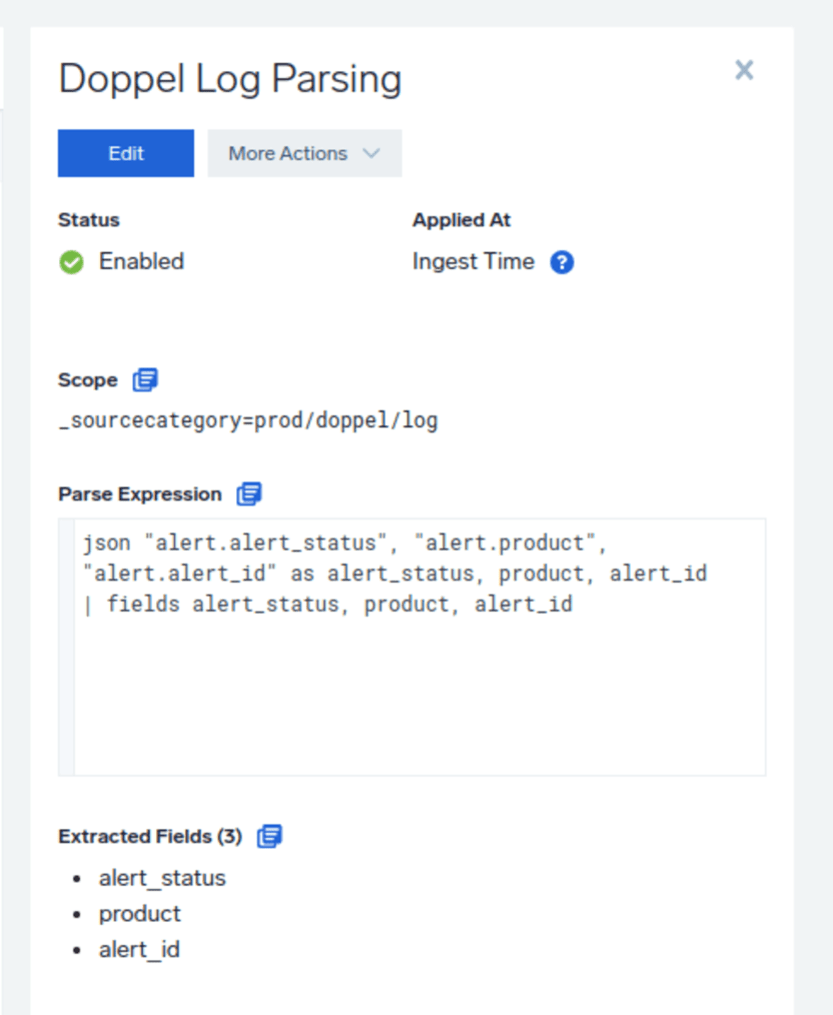
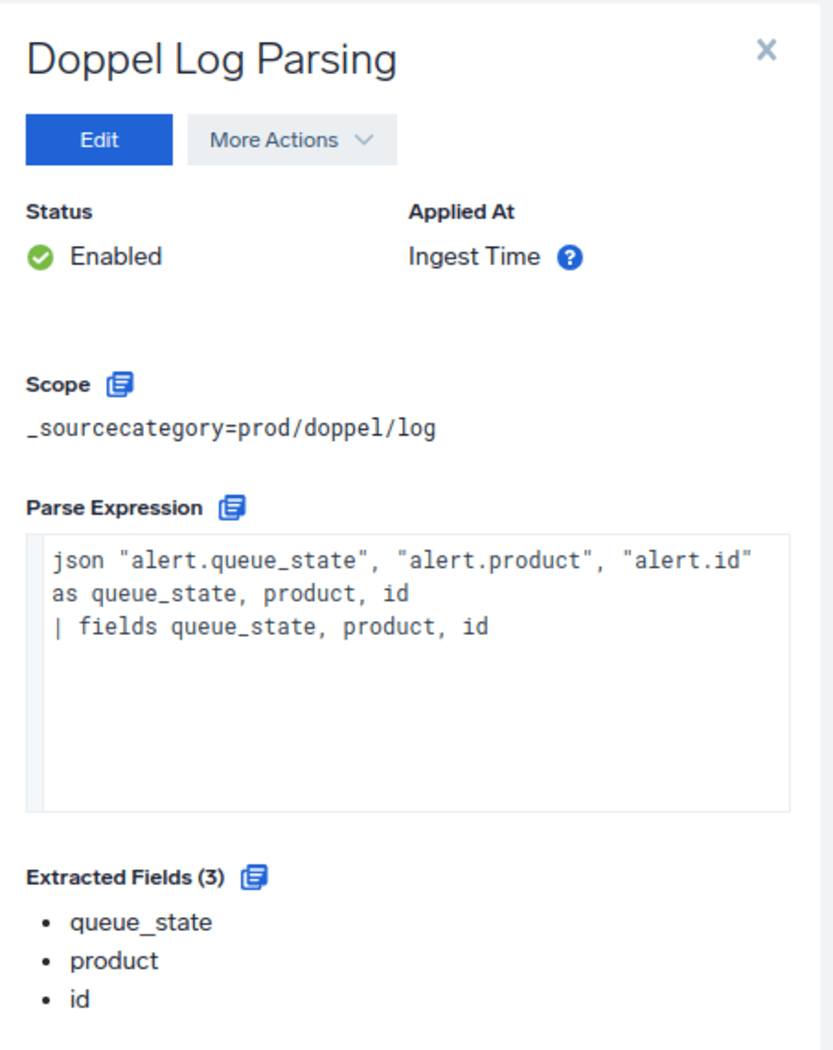
Updated dashboard and field extraction rule as per new schema

diff --git a/DoppelVision/README.md b/DoppelVision/README.md
@@ -18,7 +18,7 @@
 
 
 ```text
-{"event_type":"alert_updated","timestamp":"2024-09-05T14:45:30.129321","updated_values":{"alert_status":"archived"},"alert":{"alert_id":"MTN-13","doppel_url":"https://app.doppel.com/crypto/MTN-13","created_at":"2024-09-05T13:55:19.28432","alert_value":"phishing_wallet_v2","alert_status":"archived","alert_state":"resolved","severity":"medium","product":"crypto","source":"user_report","notes":"No further action required","uploaded_by":"liam@doppel.com","tags":[]}}
+{"event_type":"alert_updated","timestamp":"2024-09-11T06:12:17.593210","updated_values":{"queue_state":"archived"},"alert":{"id":"MTN-13","doppel_link":"https://app.doppel.com/crypto/MTN-13","created_at":"2024-09-05T13:55:19.28432","entity":"phishing_wallet_v2","queue_state":"archived","entity_state":"resolved","severity":"medium","product":"crypto","source":"user_report","notes":"No further action required","uploaded_by":"liam@doppel.com","tags":[]}}
 ```
 
 ## Query Sample
@@ -53,8 +53,8 @@ Post creation of a host collector, create a source on the collector using follow
 Your Sumo Logic Admin setting up the Doppel Vision App(only once) should add the following field extraction rules to the tenant using below mentioned steps: Follow below steps to create Field Extraction rules at ingest time.
 1. Copy the rules from below:
     ```text
-        json "alert.alert_status", "alert.product", "alert.alert_id" as alert_status, product, alert_id
-        | fields alert_status, product, alert_id
+    json "alert.queue_state", "alert.product", "alert.id" as queue_state, product, id
+    | fields queue_state, product, id
     ```
 
 2. Login to the Sumo Logic tenant -> Manage Data -> Logs -> Field Extraction Rules -> Click on "+ Add Rule"
